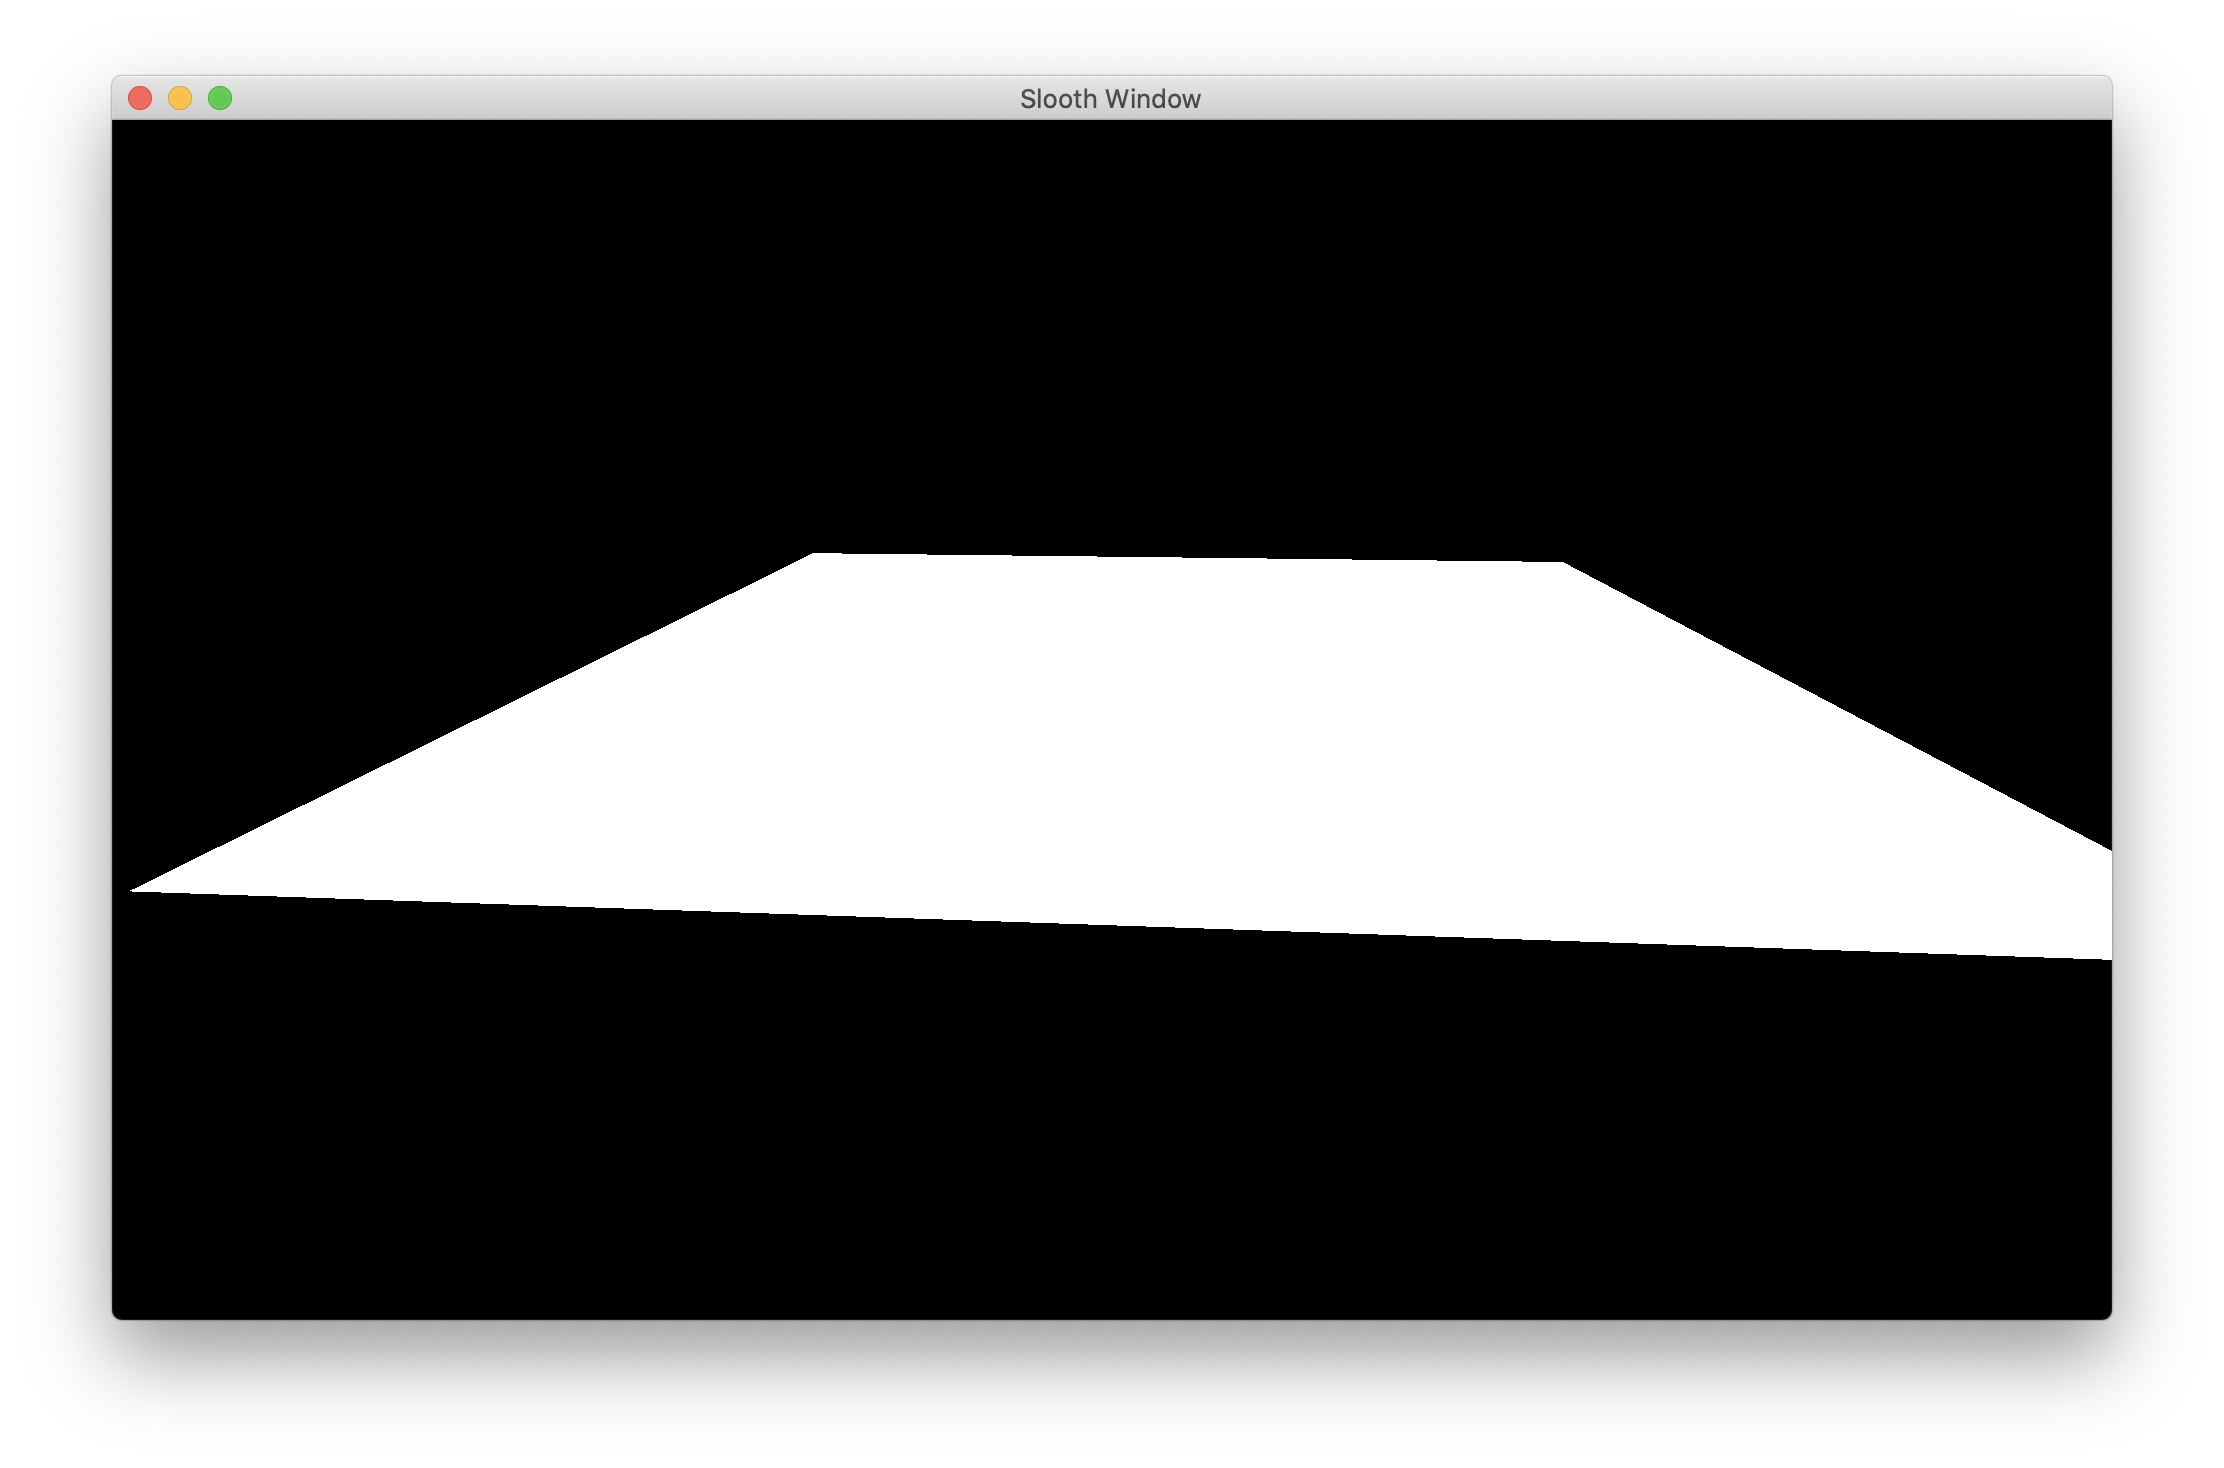
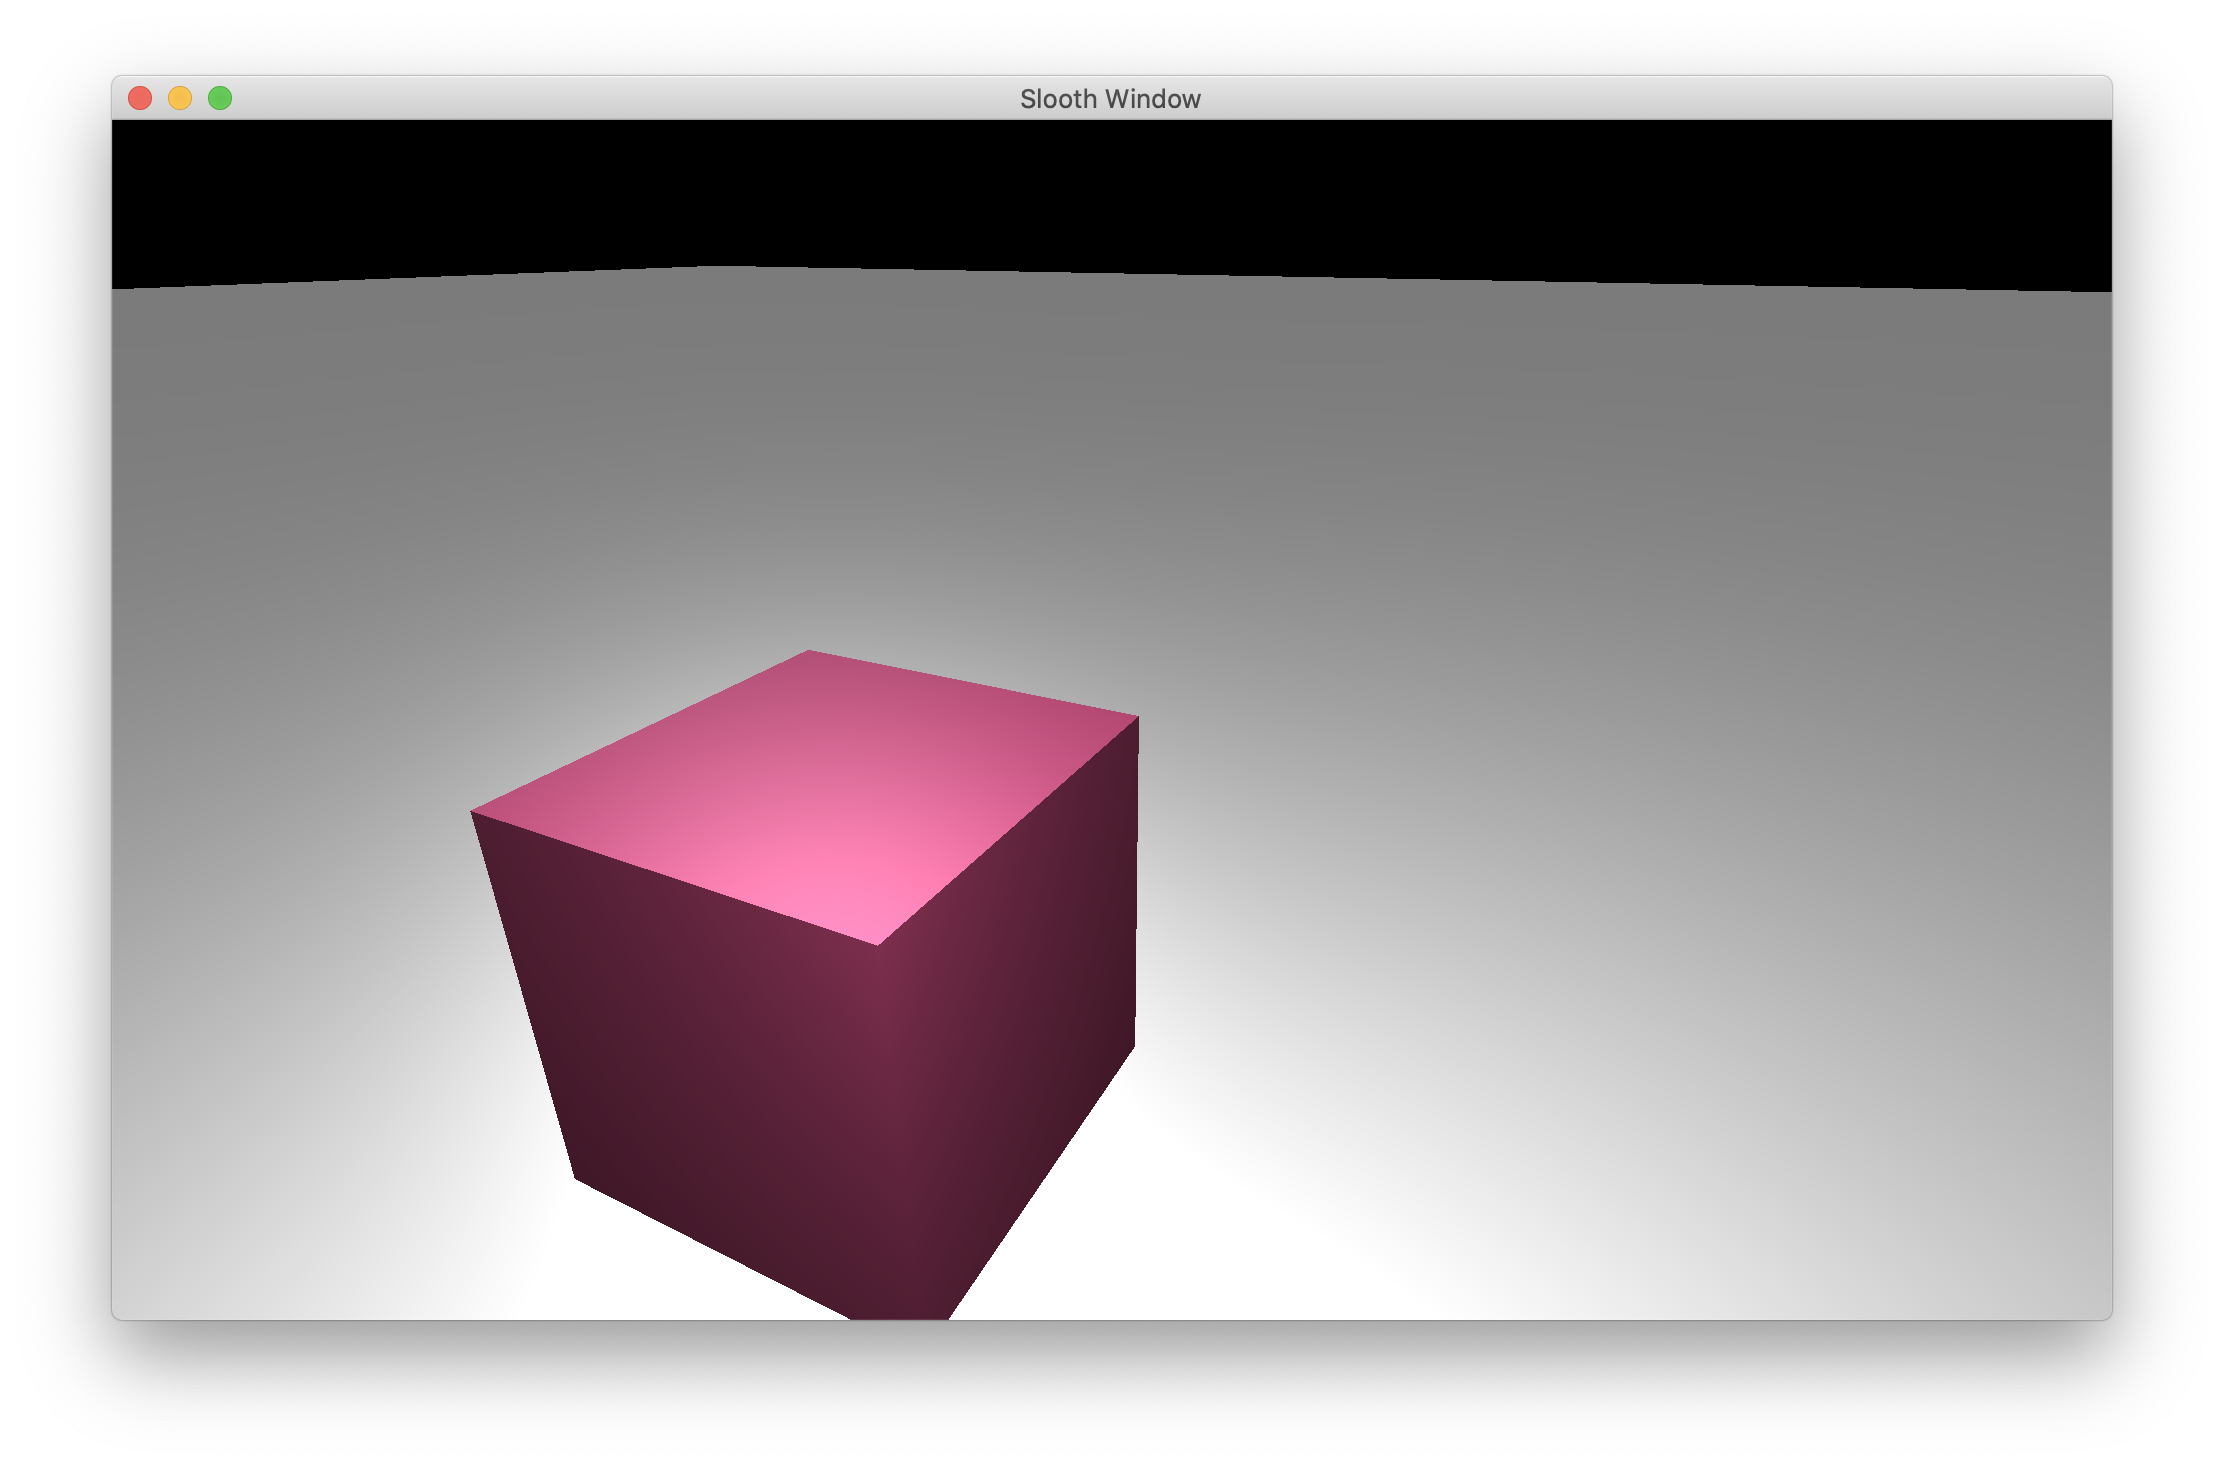
Update Readme.md

diff --git a/README.md b/README.md
@@ -11,11 +11,15 @@ but with the capability to design specific renderable objects and render pipelin
 
 ## Example Program
 
-This is a quick program to create and draw a plane.
+This is a quick program to create and display a cube on a plane with two lights.
 The default camera methods allow the user to move around with WASD.
+
 ```c++
+
 #include "core/window.hpp"
 #include "core/camera.hpp"
+#include "core/light.hpp"
+#include "objects/cuboid.hpp"
 #include "objects/plane.hpp"
 
 using namespace slt;
@@ -26,15 +30,24 @@ const unsigned int SCR_HEIGHT = 600;
 int main()
 {
     window::init(SCR_WIDTH, SCR_HEIGHT, (char*)"Slooth Window");
+    Camera camera(45.0, {0, 0, 2});
 
-    Camera camera(45.0, {0, 1, -10});
+    //         position   dimensions
+    Cuboid obj({0, 0, 0}, {1, 1, 1});
+    obj.setPlainColour({0.8, 0.3, 0.5});
 
-    Plane plane(10, 10, 1000, 1000);
+    //            position     dimensions  vertexCounts
+    Plane plane({0, -0.5, 0}, {100, 100}, {100, 100});
+
+    //                 position
+    PointLight light1({1, 1, 1});
+
+    //                       diretion
+    DirectionalLight light2({1, -1, 1});
 
     window::setMouseLocked(true);
 
-    while (!window::shouldClose())
-    {
+    while (!window::shouldClose()) {
         // Input checking to unlock the cursor
         window::loadInputs();
         if (window::isPressed(Key::ESCAPE)) {
@@ -47,17 +60,14 @@ int main()
         // Displaying object
         window::fill(0, 0, 0, 1);
 
+        camera.drawObject(obj);
         camera.drawObject(plane);
 
         window::display();
     }
-
     window::terminate();
 }
 ```
 
-With the window displaying a 2D plane in a 3D traversable world:
-
 ![](images/Example.png)
-
 
